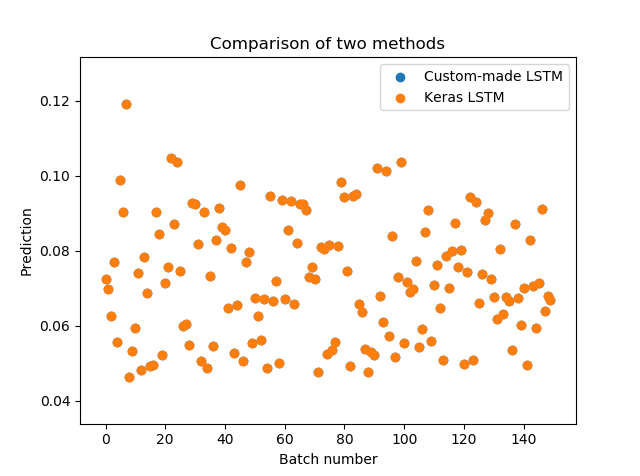
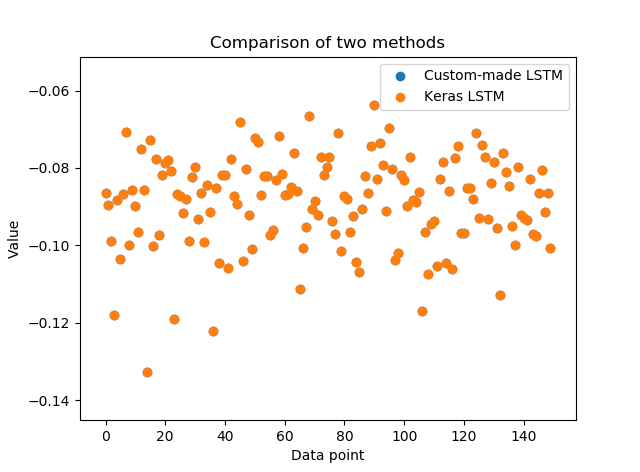
_

diff --git a/_drafts/Under the hood LSTM.md b/_drafts/Under the hood LSTM.md
@@ -7,7 +7,17 @@ tags: [deep learning, neural network, tutorial, python, programming, LSTM, recur
 image: underthehood.jpg
 ---
 
-Table of contents 
+## Table of Contents
+
+1. Introduction
+2. Architecture and the parameters of the LSTM network
+3. Retrieving weight matrices from the Keras mode
+4. Defining a model in Keras
+5. Defining our custom-made model 
+6. Implementation)
+7. Comparison and summary
+8. The full code in Python
+
 
 ## Introduction
 Since I have learned about long short-term memory (LSTM) networks, I have always wanted to apply those algorithms in practice. Recently I had a chance to work on a project which requires deeper understanding of the mathematical foundations behind LSTM models. I have been investigating how LSTMs are implemented in the source code of Keras library in Python. To my surprise, I found out that the implementation is not as straightforward as I thought. There are some interesting differences between the theory I have learned at the university and the actual source code in Keras.
@@ -15,31 +25,31 @@ Since I have learned about long short-term memory (LSTM) networks, I have always
 The great Richard Feynman said once: 
 >What I cannot create, I do not understand.
 
-To my mind, this means that one of the best methods to comprehend a concept is to get our hands dirty and make something from the scratch. By doing so, one gets a deeper understanding of a concept and hopefully is able to share the knowledge with others. This is the exact purpose of this article so let's get to it!
+To my mind, this means that one of the best methods to comprehend a concept is to recreate it from the scratch. By doing so, one gets a deeper understanding of a concept and hopefully is able to share knowledge with others. This is the exact purpose of this article so let's get to it!
 
-The goal of this tutorial is to perform a forward pass through LSTM network using two methods. The first approach is to use a model compiled using Keras library. The second method is to extract weights from Keras model and implement the forward pass ourselves using only numpy library. I will only scratch the surface when it comes to the theory behind LSTM networks. For people who are allergic to research papers (otherwise please refer to <em>Hochreiter, S.; Schmidhuber, J. (1997). "Long Short-Term Memory"</em>) the concept has been beautifully explained in [the blog post by Christopher Olah](http://colah.github.io/posts/2015-08-Understanding-LSTMs/). I would recommend to further read a [very elegant tutorial by Aidan Gomez](https://medium.com/@aidangomez/let-s-do-this-f9b699de31d9), where the author shows a numerical example of a forward and backward pass in a LSTM network. The final implementation (code in Python) can be found at the end of this article.
+The goal of this tutorial is to perform a forward pass through LSTM network using two methods. The first approach is to use a model compiled using Keras library. The second method is to extract weights from Keras model and implement the forward pass ourselves using only numpy library. I will only scratch the surface when it comes to the theory behind LSTM networks. For people who are allergic to research papers (otherwise please refer to <em>Hochreiter, S.; Schmidhuber, J. (1997). "Long Short-Term Memory"</em>) the concept has been beautifully explained in [the blog post by Christopher Olah](http://colah.github.io/posts/2015-08-Understanding-LSTMs/). I would also recommend to read a [very elegant tutorial by Aidan Gomez](https://medium.com/@aidangomez/let-s-do-this-f9b699de31d9), where the author shows a numerical example of a forward and backward pass in a LSTM network. My final implementation (code in Python) can be found at the end of this article.
 
 ## Architecture and the parameters of the LSTM network
 
 Firstly, let's discuss how an input to the network looks like. A model takes a sequence of __samples__ (observations) as an input and returns a single number (result) as an output. I call one sequence of observations a __batch__. Thus, a single batch is an input sequence to the network. 
 Parameter __timesteps__ defines the length of a sequence. This means that the number of timesteps is equal to the number of samples in a batch. Additionally, since our input has only one feature, the dimension of the input is set to one.
 
-Mathematically, we may say that a batch $$x$$ is a vector $$x\in \Bbb{R}^{n}$$, where $$n$$ is equal to timesteps parameter and the model outputs a value $$y\in \Bbb{R}$$.  
+Mathematically, we may say that a batch $$x$$ is a vector $$x\in \Bbb{R}^{timesteps}$$ and the model outputs a value $$y\in \Bbb{R}$$.  
 
-According to the  [classification done by Andrej Karpathy](http://karpathy.github.io/2015/05/21/rnn-effectiveness), we call this a <em> many-to-one model </em>. Let's say that that our timesteps parameter equals 3. This means that an arbitary sequence of a length three $$\begin{bmatrix}x_{1}\\x_{2}\\x_{3}\end{bmatrix}$$ returns a single value $$y$$ as shown below:
+According to the  [classification done by Andrej Karpathy](http://karpathy.github.io/2015/05/21/rnn-effectiveness), we call such a model a <em> many-to-one model </em>. Let's say that that our timesteps parameter equals 3. This means that an arbitary sequence of a length three $$x=\begin{bmatrix}x_{1}\\x_{2}\\x_{3}\end{bmatrix}$$ returns a single value $$y$$ as shown below:
 
 {:refdef: style="text-align: center;"}
-![alt text](https://raw.githubusercontent.com/dtransposed/dtransposed.github.io/assets/3/Figure_1.png "Example")
+![alt text](https://raw.githubusercontent.com/dtransposed/dtransposed.github.io/master/assets/3/Figure_2.png "Example"){:height="50%" width="50%"}
 {: refdef}
 <em>Figure 1: Our example of many-to-one LSTM implementation </em>
 
-Finally, we define the usual neural network parameters such as the number of LSTM layers and amount of hidden units in every layer. All in all, our parameters are set to:
+Finally, we define usual neural network parameters such as the number of LSTM layers and amount of hidden units in every layer. Our parameters are set to:
 - <em>timesteps = 20 </em>        
 - <em>no_of_batches = 150</em>  
 - <em>no_of_layers = 3 </em>       
 - <em>no_of_units = 10 </em> 
 
-For simplification we assume that every LSTM layer has the same number of hidden units. Many-to-one model requires, that after passing through all LSTM layers the intermediate result is finally processed by a single dense layer, which returns final value $$y$$. That implies that our neural network has the following architecture:
+For simplification we assume that every LSTM layer has the same number of hidden units. Many-to-one model requires, that after passing through all LSTM layers the intermediate result is finally processed by a single dense layer, which returns the final value $$y$$. That implies that our neural network has the following architecture:
 
 Layer (type)       | Output Shape   | Param #              | 
 --------------------- | :-------------------: | :-------------------- :| 
@@ -50,30 +60,104 @@ dense_1 (Dense)  | (None, 1) | 11 |
 
 <em>Figure 2: Model used in our example </em>
 
-Side note: it is important to recognize that the shape of the array which is being propagated during the foreward pass in LSTM layers depends on the parameters (no_of_units and timesteps).
+By the way, we can directly see that the shape of the array which is being propagated during the foreward pass in LSTM layers depends on the parameters (<em>no_of_units</em> and <em>timesteps</em>).
 
 ## Retrieving weight matrices from the Keras model
 
-Our next step involves extracting weights in form of numpy arrays from the Keras model.
+```python
+def import_weights(no_of_layers, hidden_units):
+    layer_no = 0
+    for index in range(1, no_of_layers+1):
+        for matrix_type in ['W', 'U', 'b']:
+            if matrix_type != 'b':
+                weights_dictionary["LSTM{0}_i_{1}".format(index, matrix_type)] = model_weights[layer_no][:,:hidden_units]
+                weights_dictionary["LSTM{0}_f_{1}".format(index, matrix_type)] = model_weights[layer_no][:,hidden_units:hidden_units * 2]
+                weights_dictionary["LSTM{0}_c_{1}".format(index, matrix_type)] = model_weights[layer_no][:,hidden_units * 2:hidden_units * 3]
+                weights_dictionary["LSTM{0}_o_{1}".format(index, matrix_type)] = model_weights[layer_no][:,hidden_units * 3:]  
+                layer_no = layer_no + 1
+            else:
+                weights_dictionary["LSTM{0}_i_{1}".format(index, matrix_type)] = model_weights[layer_no][:hidden_units]
+                weights_dictionary["LSTM{0}_f_{1}".format(index, matrix_type)] = model_weights[layer_no][hidden_units:hidden_units * 2]
+                weights_dictionary["LSTM{0}_c_{1}".format(index, matrix_type)] = model_weights[layer_no][hidden_units * 2:hidden_units * 3]
+                weights_dictionary["LSTM{0}_o_{1}".format(index, matrix_type)] = model_weights[layer_no][hidden_units * 3:]  
+                layer_no = layer_no + 1
+                
+    weights_dictionary["W_dense"] = model_weights[layer_no]
+    weights_dictionary["b_dense"] = model_weights[layer_no + 1]
+```
+Our next step involves extracting weights in form of numpy arrays from the Keras model. For every LSTM layer created in our Keras model, the method returns three arrays:
 
-For every LSTM layer created in our Keras model, the method returns three arrays:
+- first array (a kernel) stores weights which correspond to $$W$$ weights for each of four LSTM gates: input gate, forget gate, cell state gate and output gate.
+- second array (called a reccurent kernel) contains respective $$U$$ weights 
+- the last, third array (bias) stores respective $$b$$ values.
 
-First array (a kernel) stores weights which correspond to $$W$$ weights for each of four LSTM gates: input gate, forget gate, cell state gate and output gate.
-Second array (called a reccurent kernel) contains respective $$U$$ weights and the last, third array (bias) stores $$b$$ values.
-
-Function <em>import_weights</em> allows us to quickly extract weights from the Keras model and store them in <em>weights_dictionary</em>, where keys of the dictionary are names of matrices and values are respective numpy arrays. Taking in account the nature of our architecture, last component of our network is a dense layer, so we additionally read off weights for that element (W and b array).
+Function <em>import_weights</em> allows us to quickly extract weights from the Keras model and store them in <em>weights_dictionary</em>, where keys of the dictionary are array names and values are the respective numpy arrays. Taking into account the nature of our model, the last component of the network is a dense layer, so we additionally read off weights for that element.
 
 
 ## Defining a model in Keras
 
-The object of the class <em>LSTM_Keras</em> simply returns a model of a neural network. We need this element to:
-- obtain weights for our custom-made model
-- compare results between Keras implementation and our custom-made implementation
+```python
+class LSTM_Keras(object):  
+    def __init__(self, no_hidden_units, timesteps):
+        self.timesteps = timesteps
+        self.no_hidden_units = no_hidden_units       
+        model = Sequential()
+        model.add(LSTM(units = self.no_hidden_units, return_sequences = True, input_shape = (self.timesteps, 1)))
+        model.add(LSTM(units = self.no_hidden_units, return_sequences = True))
+        model.add(LSTM(units = self.no_hidden_units, return_sequences = False))
+        model.add(Dense(units = 1))
+        self.model = model
+```
+
+The object of the class <em>LSTM_Keras</em> returns a model of a neural network. We need this element to:
+- obtain weights for our custom-made model.
+- compare results between Keras implementation and our custom-made implementation.
 
 
+## Defining our custom-made model 
 
+```python
+class custom_LSTM(object):
+    
+    def __init__(self, timesteps, no_of_units):
+        self.timesteps = timesteps
+        self.no_hidden_units = no_of_units
+        self.hidden = np.zeros((self.timesteps, self.no_hidden_units),dtype = np.float32)
+        self.cell_state = np.zeros((self.timesteps, self.no_hidden_units),dtype = np.float32)
+        self.output_array = []
+        
+    def hard_sigmoid(self, x):
+        slope = 0.2
+        shift = 0.5
+        x = (x * slope) + shift
+        x = np.clip(x, 0, 1)
+        return x
 
-## Defining a custom LSTM layer
+    def tanh(self, x):
+        return np.tanh(x)
+        
+    def layer(self, xt, Wf, Wi, Wo, Wc, Uf, Ui, Uo, Uc, bf, bi, bo, bc):
+        ft = self.hard_sigmoid(np.dot(xt, Wf) + np.dot(self.hidden, Uf) + bf)
+        it = self.hard_sigmoid(np.dot(xt, Wi) + np.dot(self.hidden, Ui) + bi)
+        ot = self.hard_sigmoid(np.dot(xt, Wo) + np.dot(self.hidden, Uo) + bo)
+        ct = (ft * self.cell_state)+(it * self.tanh(np.dot(xt, Wc) + np.dot(self.hidden, Uc) + bc))
+        ht = ot * self.tanh(ct)
+        self.hidden = ht
+        self.cell_state = ct
+        return self.hidden
+
+    def reset_state(self):
+        self.hidden = np.zeros((self.timesteps, self.no_hidden_units),dtype = np.float32)
+        self.cell_state = np.zeros((self.timesteps, self.no_hidden_units),dtype = np.float32)
+        
+    def dense(self, x, weights, bias):
+        result = np.dot(x, weights)+bias
+        self.result=result[0]
+        return result[0]
+    
+    def output_array_append(self):
+        self.output_array.append(self.result[0])
+```
 The class <em>custom_LSTM</em> is the core of the code. Its task is to simulate a single LSTM layer in our network. The method <em>layer</em> is the actual implementation of the LSTM equations:
 
 $$f_t=\sigma(W_f*x_t+U_f*h_{t-1}+b_f)$$
@@ -87,41 +171,71 @@ $$c_t={f_t}\circ{c_{t-1}}+i_t*tanh(W_c*x+U_c*h_{t-1}+b_c)$$
 $${h_t=o_t * tanh(c_t)}$$
 
 The basic functionality of the custom-made LSTM layer is 
-- to change its internal state during forward propagation of the batch
-- return an intermidiate (hidden) result, which flows to the next layer.
+- change the internal state during forward propagation of the batch
+- return an intermediate (hidden) result, which flows from LSTM cell (layer) to the consecutive layer.
 
-The thing which suprised me while I was reading the Keras source code, is that an ordinary sigmoid function has been replace by a hard sigmoid. The standard sigmoid may be sometimes slow to compute because it requires calculating the exponential function. Usually the high-precision result is not needed and an approximation suffices. This is why the hard sigmoid is being used- to approximate the standard sigmoid and accelerate the computation.
+The thing which surprised me while I was reading the Keras source code, is that an ordinary sigmoid function has been replaced by a hard sigmoid. The standard logistic function may be sometimes slow to compute because it requires calculating the exponential function. Usually the high-precision result is not needed and an approximation suffices. This is why the hard sigmoid is being used here, to approximate the standard sigmoid and accelerate the computation.
 
 Additional methods of the class allow us to:
-- reset layer's state 
-- implement the dense layer, which returns a final output
+- reset state of a layer.
+- implement the dense layer, which returns a final output.
  
-Both methods are used once the whole batch has passed through the layer (explained in chapter <em>Implementation</em>).
 
 ## Implementation 
 
-Having defined all the helper functions and classes, we can finally implement our custom-made LSTM (<em>main</em> part of the code).
+```python
+for batch in range(input_to_keras.shape[0]):
 
-Firstly, we initialize a model in Keras. The weights are automatically created using default settings (kernel weights initialized according to Xaviers initialization, recurrent kernel weights initialized as a random orthogonal matrix and bias as zero). Secondly, we create three custom-made LSTM layers. Thirdly, we create an input to the network. It is a sequence of a pre-defined size of random integers in range 0 to 100. Then, we start a loop, which computes the result of our custom-made neural network. 
-To illustrate the flow of variables for a sample network, which takes batches of two samples, please see figure x:
+    LSTM_layer_1.reset_state()
+    LSTM_layer_2.reset_state()
+    LSTM_layer_3.reset_state()
+    
+    for timestep in range(input_to_keras.shape[1]):
+        
+        output_from_LSTM_1 = LSTM_layer_1.layer(input_to_keras[batch,timestep,:], weights_dictionary['LSTM1_f_W'], weights_dictionary['LSTM1_i_W'], 
+                                                                                  weights_dictionary['LSTM1_o_W'], weights_dictionary['LSTM1_c_W'],
+                                                                                  weights_dictionary['LSTM1_f_U'], weights_dictionary['LSTM1_i_U'], 
+                                                                                  weights_dictionary['LSTM1_o_U'], weights_dictionary['LSTM1_c_U'],
+                                                                                  weights_dictionary['LSTM1_f_b'], weights_dictionary['LSTM1_i_b'], 
+                                                                                  weights_dictionary['LSTM1_o_b'], weights_dictionary['LSTM1_c_b'])
+        
+        output_from_LSTM_2 = LSTM_layer_2.layer(output_from_LSTM_1, weights_dictionary['LSTM2_f_W'], weights_dictionary['LSTM2_i_W'], 
+                                                                    weights_dictionary['LSTM2_o_W'], weights_dictionary['LSTM2_c_W'],
+                                                                    weights_dictionary['LSTM2_f_U'], weights_dictionary['LSTM2_i_U'], 
+                                                                    weights_dictionary['LSTM2_o_U'], weights_dictionary['LSTM2_c_U'],
+                                                                    weights_dictionary['LSTM2_f_b'], weights_dictionary['LSTM2_i_b'], 
+                                                                    weights_dictionary['LSTM2_o_b'], weights_dictionary['LSTM2_c_b'])
+        
+        output_from_LSTM_3 = LSTM_layer_3.layer(output_from_LSTM_2, weights_dictionary['LSTM3_f_W'], weights_dictionary['LSTM3_i_W'], 
+                                                                    weights_dictionary['LSTM3_o_W'], weights_dictionary['LSTM3_c_W'],
+                                                                    weights_dictionary['LSTM3_f_U'], weights_dictionary['LSTM3_i_U'], 
+                                                                    weights_dictionary['LSTM3_o_U'], weights_dictionary['LSTM3_c_U'],
+                                                                    weights_dictionary['LSTM3_f_b'], weights_dictionary['LSTM3_i_b'], 
+                                                                    weights_dictionary['LSTM3_o_b'], weights_dictionary['LSTM3_c_b'])
+    
+    LSTM_layer_3.dense(output_from_LSTM_3, weights_dictionary['W_dense'], weights_dictionary['b_dense'])
+    LSTM_layer_3.output_array_append()
+```
+Having defined all the helper functions and classes, we can finally implement our custom-made LSTM (main part of the code).
 
+Firstly, we initialize a model in Keras. The weights are automatically created using default settings (kernel weights initialized according to Xavier's initialization, recurrent kernel weights initialized as a random orthogonal matrix, bias set to zero). Secondly, we create three custom-made LSTM layers. Thirdly, we create an input to the network. It is a sequence of a pre-defined size of random integers in range 0 to 100. Finally, we start a loop, which computes the result of our custom-made neural network. 
+To illustrate the flow of variables for a sample network, which takes batches of two samples, please see figure 3:
 
-For every batch, when all samples have passed through the architecture, the last sample enters the dense layer, which computes the final output for the given batch. Additionally, the state of every LSTM layer is reset. This is to simulate what happens in Keras after each batch has been processed. By default the argument <em>stateful= False</em>. If it were True, 
+{:refdef: style="text-align: center;"}
+![alt text](https://raw.githubusercontent.com/dtransposed/dtransposed.github.io/master/assets/3/Figure_4.gif "Example")
+{: refdef}
+<em>Figure 3: Variable flow through a network</em>
+
+For every batch, when all samples have passed through the architecture, the last sample enters the dense layer. This results in the final output for the given batch. Additionally, the state of every LSTM layer is reset. This is to simulate what happens in Keras after each batch has been processed. By default, when defining an [LSTM layer](https://keras.io/layers/recurrent/#lstm), the argument <em>stateful= False</em>. If it were True, 
 
 > the last state for each sample a batch would be used as initial state for the first in the following batch.
 
-Now every output $$y$$ returned by a given batch is being appended to the list <em>output_array</em>. This structure holds results returned by our network for every batch of observations. Having all results saved to one list, we may now compare the our solution with the one implemented in Keras.
+In our case, for every new batch the internal state of every LSTM cell is being reset.
+Now every output $$y$$ returned by a given batch is being appended to the list <em>output_array</em>. This structure holds results returned by our network for every batch of observations. Having all results saved to one list, we may now compare our solution with the one returned by Keras.
 
 ## Comparison and summary
 
-We run the code with the following parameters:
-
-- <em>timesteps = 10 </em>        
-- <em>no_of_batches = 150</em>  
-- <em>no_of_layers = 3 </em>       
-- <em>no_of_units = 10 </em> 
-
-By increasing the number of timesteps, batches and layers we radically increase the runtime of the code. In practice it is much more efficient to do the prediction (forward propagation) step directly in Keras. Our complicated and time-consuming implementation may be wrapped up by a single line of code in Keras:
+We run the code with the specified parameters. One can immediately observe, that by playing with the parameters (increasing the number of timesteps, batches and layers), we radically increase the runtime. In practice it is much more efficient to do the prediction (forward propagation) step directly in Keras. In the end, smart implementation aces our sluggish for-loops out. Our complicated and time-consuming implementation may be wrapped up by a single line of code in Keras:
 
 > model.predict (x) 
 
@@ -130,14 +244,18 @@ Let's take a look at the results:
 {:refdef: style="text-align: center;"}
 ![alt text](https://raw.githubusercontent.com/dtransposed/dtransposed.github.io/master/assets/3/Figure_1.png "Example")
 {: refdef}
-<em>Figure x: Results from our implementations and Keras overlap tightly </em>
+<em>Figure 4: Results from our implementations and Keras overlap tightly </em>
 
-<em>result_custom</em>		=[0.072438, 0.0699164, 0.0627664, 0.0770456, 0.0558161,...]
-<em>result_keras</em>		=[0.0724383, 0.0699164, 0.0627664, 0.0770456, 0.0558161,...]
+<em>result_custom</em> = [-0.0865001, -0.0895177, -0.0988678, ... ]
 
-We see that our implementation and results returned by Keras match. Since we input random numbers and process them using randomly initialized values, there is also no pattern observed in our predictions. However, by replacing the Keras model, by a pre-trained network and using some more realistic input we get the following result.
+<em>result_keras</em> = [-0.0865001, -0.0895177, -0.0988678, ...]
 
-## The code in Python
 
+We see that our implementation and results returned by Keras match very accurately (up to eight decimal places)!
+This is only a basic breakdown of an basic LSTM model. It has simple, numerical data with a single feature as an input. Still, the code should give a good insight (a glimpse under the hood) into the mathematical operations behind LSTMs.
+
+## The full code in Python
+
+For condensed, full code please visit my [github](https://github.com/dtransposed/dtransposed-blog-codes/blob/master/Numpy%20implementation%20of%20LSTM%20neural%20networks.py).
 
 <em>Source of the cover image: http://www.bleum.com</em>
